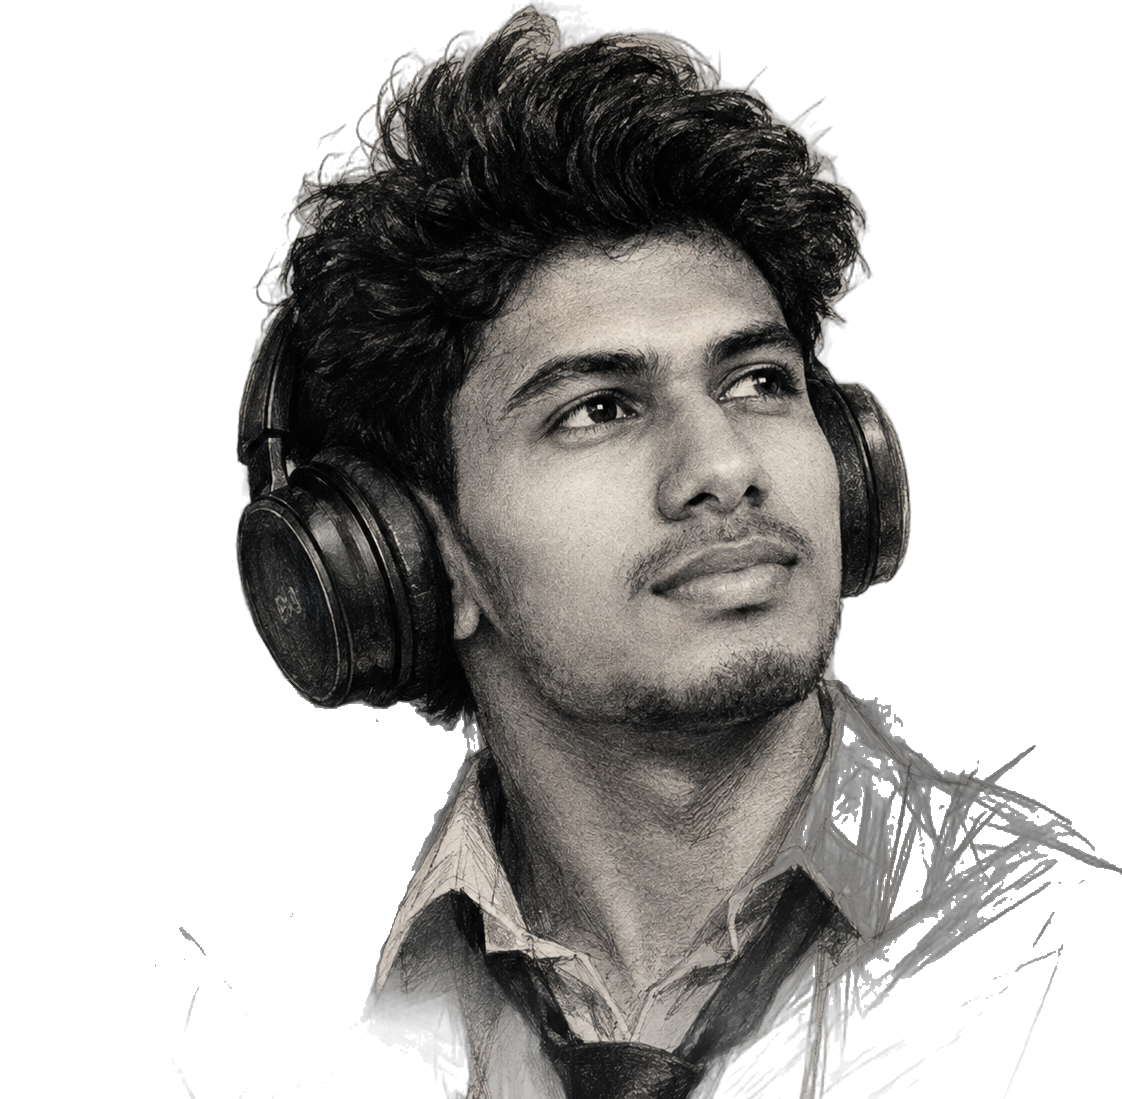
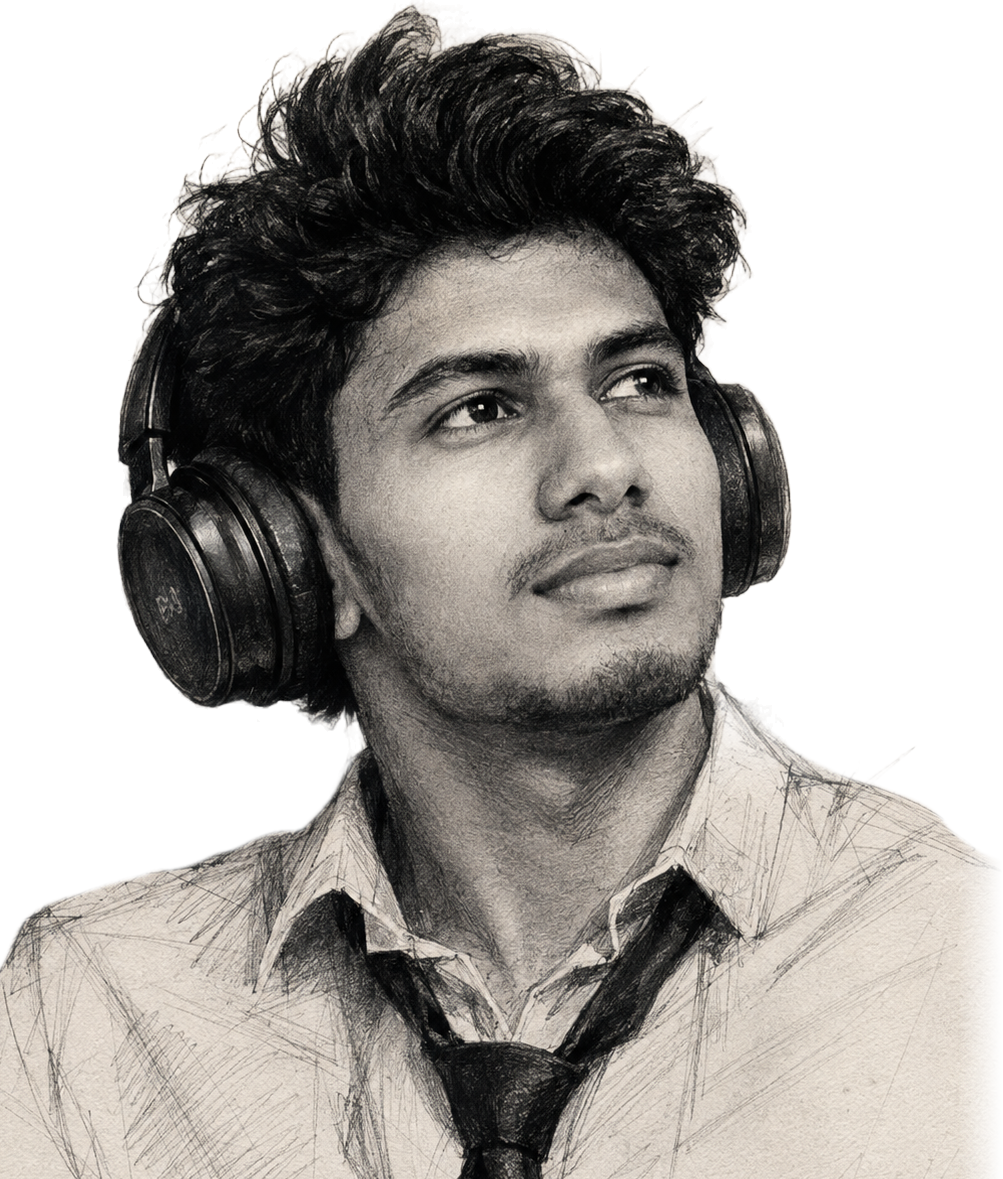
feat: enhance About section with image and layout improvements

diff --git a/components/sections/About.tsx b/components/sections/About.tsx
@@ -1,8 +1,8 @@
 "use client";
 
 import { useRef } from "react";
+import Image from "next/image";
 import { useSectionReveal } from "@/lib/useSectionReveal";
-import ImagePlaceholder from "@/components/ImagePlaceholder";
 
 const STATS = [
   { n: "01", label: "Projects shipped", value: "8+" },
@@ -12,32 +12,23 @@ const STATS = [
 
 export default function About() {
   const ref = useRef<HTMLElement>(null);
-  useSectionReveal(ref);
+  useSectionReveal(ref, ":scope .about-item");
 
   return (
     <section
       id="about"
       ref={ref}
-      className="border-b border-line px-5 py-24 md:px-6 lg:px-10 xl:px-20"
+      className="relative overflow-hidden border-b border-line px-5 pt-24 md:px-6 lg:px-10 xl:px-20"
     >
-      <div className="container mx-auto grid grid-cols-1 gap-12 lg:grid-cols-[420px_1fr] lg:gap-16">
-        <div className="mx-auto w-full max-w-[420px] lg:mx-0">
-          <ImagePlaceholder
-            ratio="4/5"
-            src="/image/about-nobg.png"
-            alt="Prabath Unni"
-            bordered={false}
-          />
-        </div>
-
-        <div>
+      <div className="container mx-auto grid grid-cols-1 items-end gap-12 lg:grid-cols-[minmax(0,1fr)_minmax(0,460px)] lg:gap-16">
+        <div className="about-item lg:self-center lg:pb-24">
           <p className="mb-6 flex items-center gap-2 text-xs uppercase tracking-[0.3em] text-muted">
             <span className="text-accent">✦</span> About Me
           </p>
-          <h2 className="font-display text-4xl uppercase leading-tight md:text-5xl">
+          <h2 className="text-balance font-display text-4xl uppercase leading-tight md:text-5xl lg:text-6xl">
             Building things for the <span className="text-accent">web</span>
           </h2>
-          <div className="mt-6 max-w-xl space-y-4 text-base leading-relaxed text-muted md:text-lg">
+          <div className="mt-8 max-w-xl space-y-4 text-base leading-relaxed text-muted md:text-lg">
             <p>
               What I&apos;m best at isn&apos;t tied to one framework. It&apos;s getting handed
               something unfamiliar and figuring out how to make it work. Most days that means
@@ -57,14 +48,40 @@ export default function About() {
             </p>
           </div>
 
-          <div className="mt-10 grid grid-cols-1 gap-6 border-t border-line pt-8 sm:grid-cols-3">
+          <dl className="mt-10 max-w-xl border-t border-line">
             {STATS.map((s) => (
-              <div key={s.n}>
-                <span className="font-display text-sm text-accent">{s.n}</span>
-                <p className="mt-2 font-display text-2xl uppercase">{s.value}</p>
-                <p className="text-xs uppercase tracking-widest text-muted">{s.label}</p>
+              <div
+                key={s.n}
+                className="flex items-baseline justify-between gap-6 border-b border-line py-4"
+              >
+                <dt className="flex items-baseline gap-4 text-xs uppercase tracking-widest text-muted">
+                  <span className="font-display text-sm text-accent">{s.n}</span>
+                  {s.label}
+                </dt>
+                <dd className="font-display text-xl uppercase text-ink md:text-2xl">{s.value}</dd>
               </div>
             ))}
+          </dl>
+        </div>
+
+        <div className="about-item relative mx-auto w-full max-w-[420px] lg:max-w-none">
+          <span
+            aria-hidden
+            className="pointer-events-none absolute -top-[4%] left-1/2 -translate-x-1/2 lg:-top-[11%] select-none whitespace-nowrap font-display text-[clamp(4rem,20vw,8rem)] uppercase leading-none text-transparent"
+            style={{ WebkitTextStroke: "1px rgba(255,255,255,0.14)" }}
+          >
+            About
+          </span>
+          <div className="pointer-events-none absolute left-1/2 top-[40%] h-2/3 w-3/4 -translate-x-1/2 -translate-y-1/2 rounded-full bg-accent/20 blur-[110px]" />
+          {/* nudged down so the image's empty bottom strip is clipped and the shirt sits on the border */}
+          <div className="relative aspect-[4/5] translate-y-[2%]">
+            <Image
+              src="/image/about-nobg.png"
+              alt="Prabath Unni"
+              fill
+              sizes="(min-width: 1024px) 460px, 420px"
+              className="object-contain object-bottom"
+            />
           </div>
         </div>
       </div>
